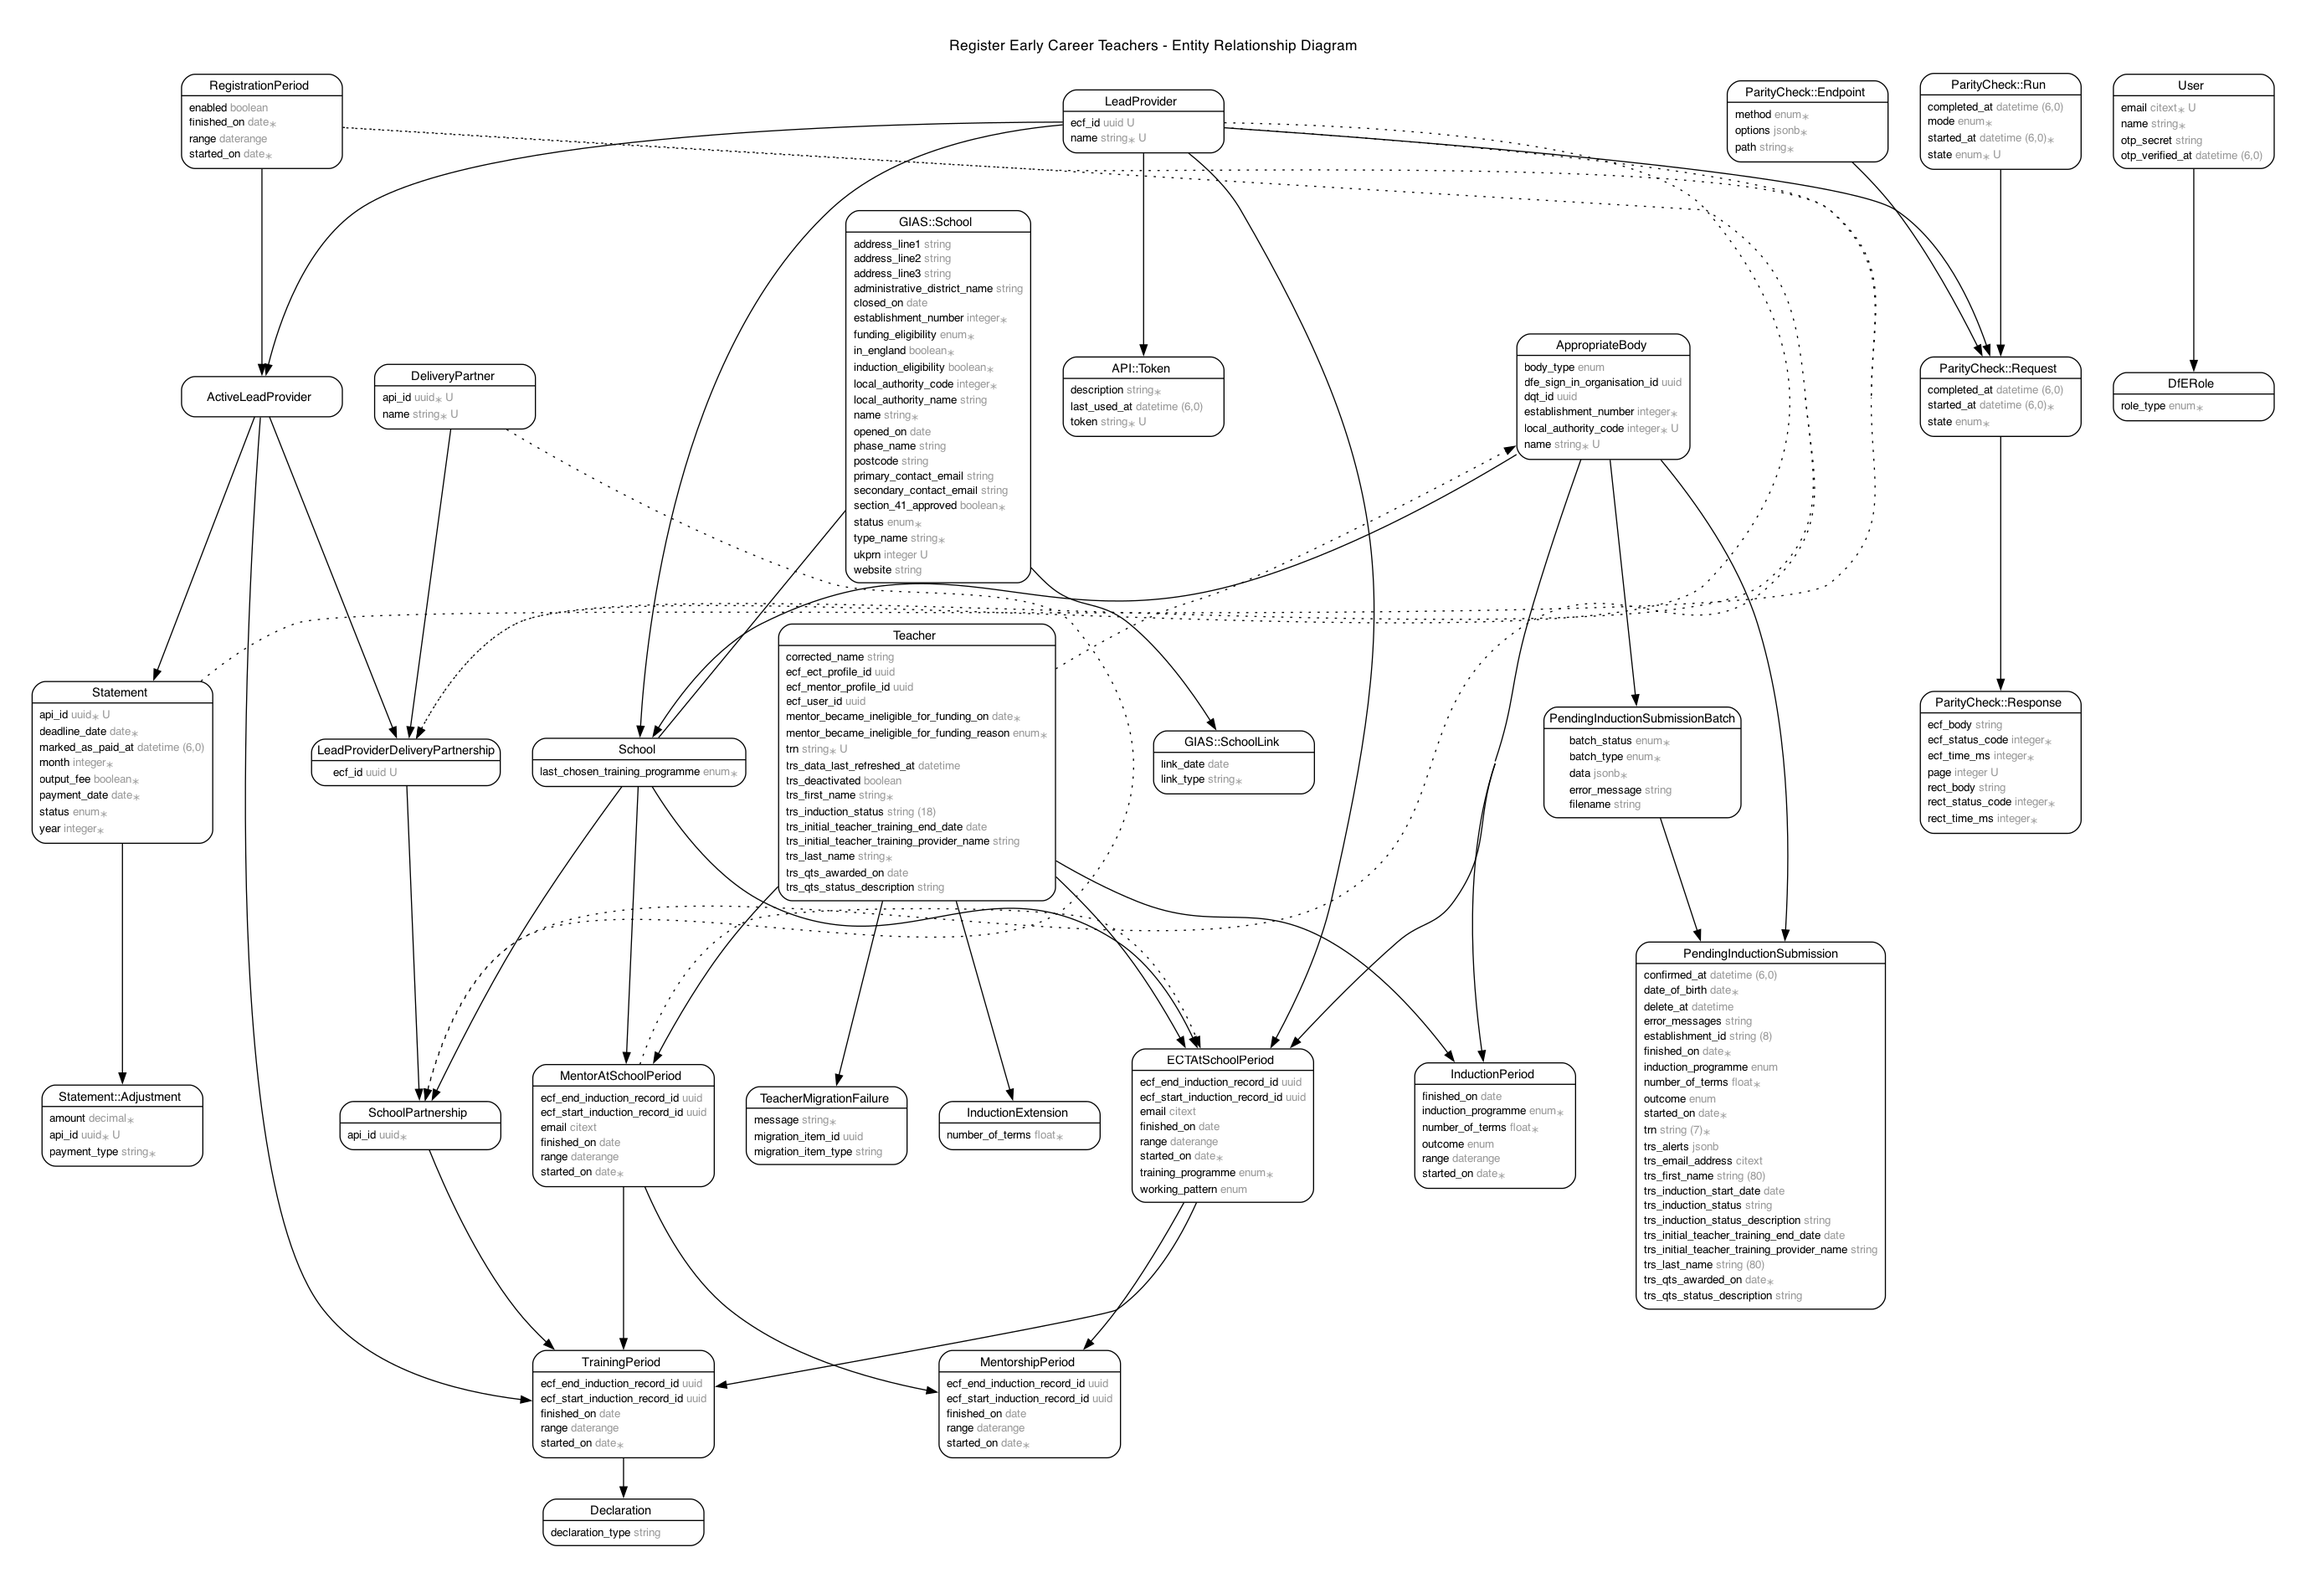
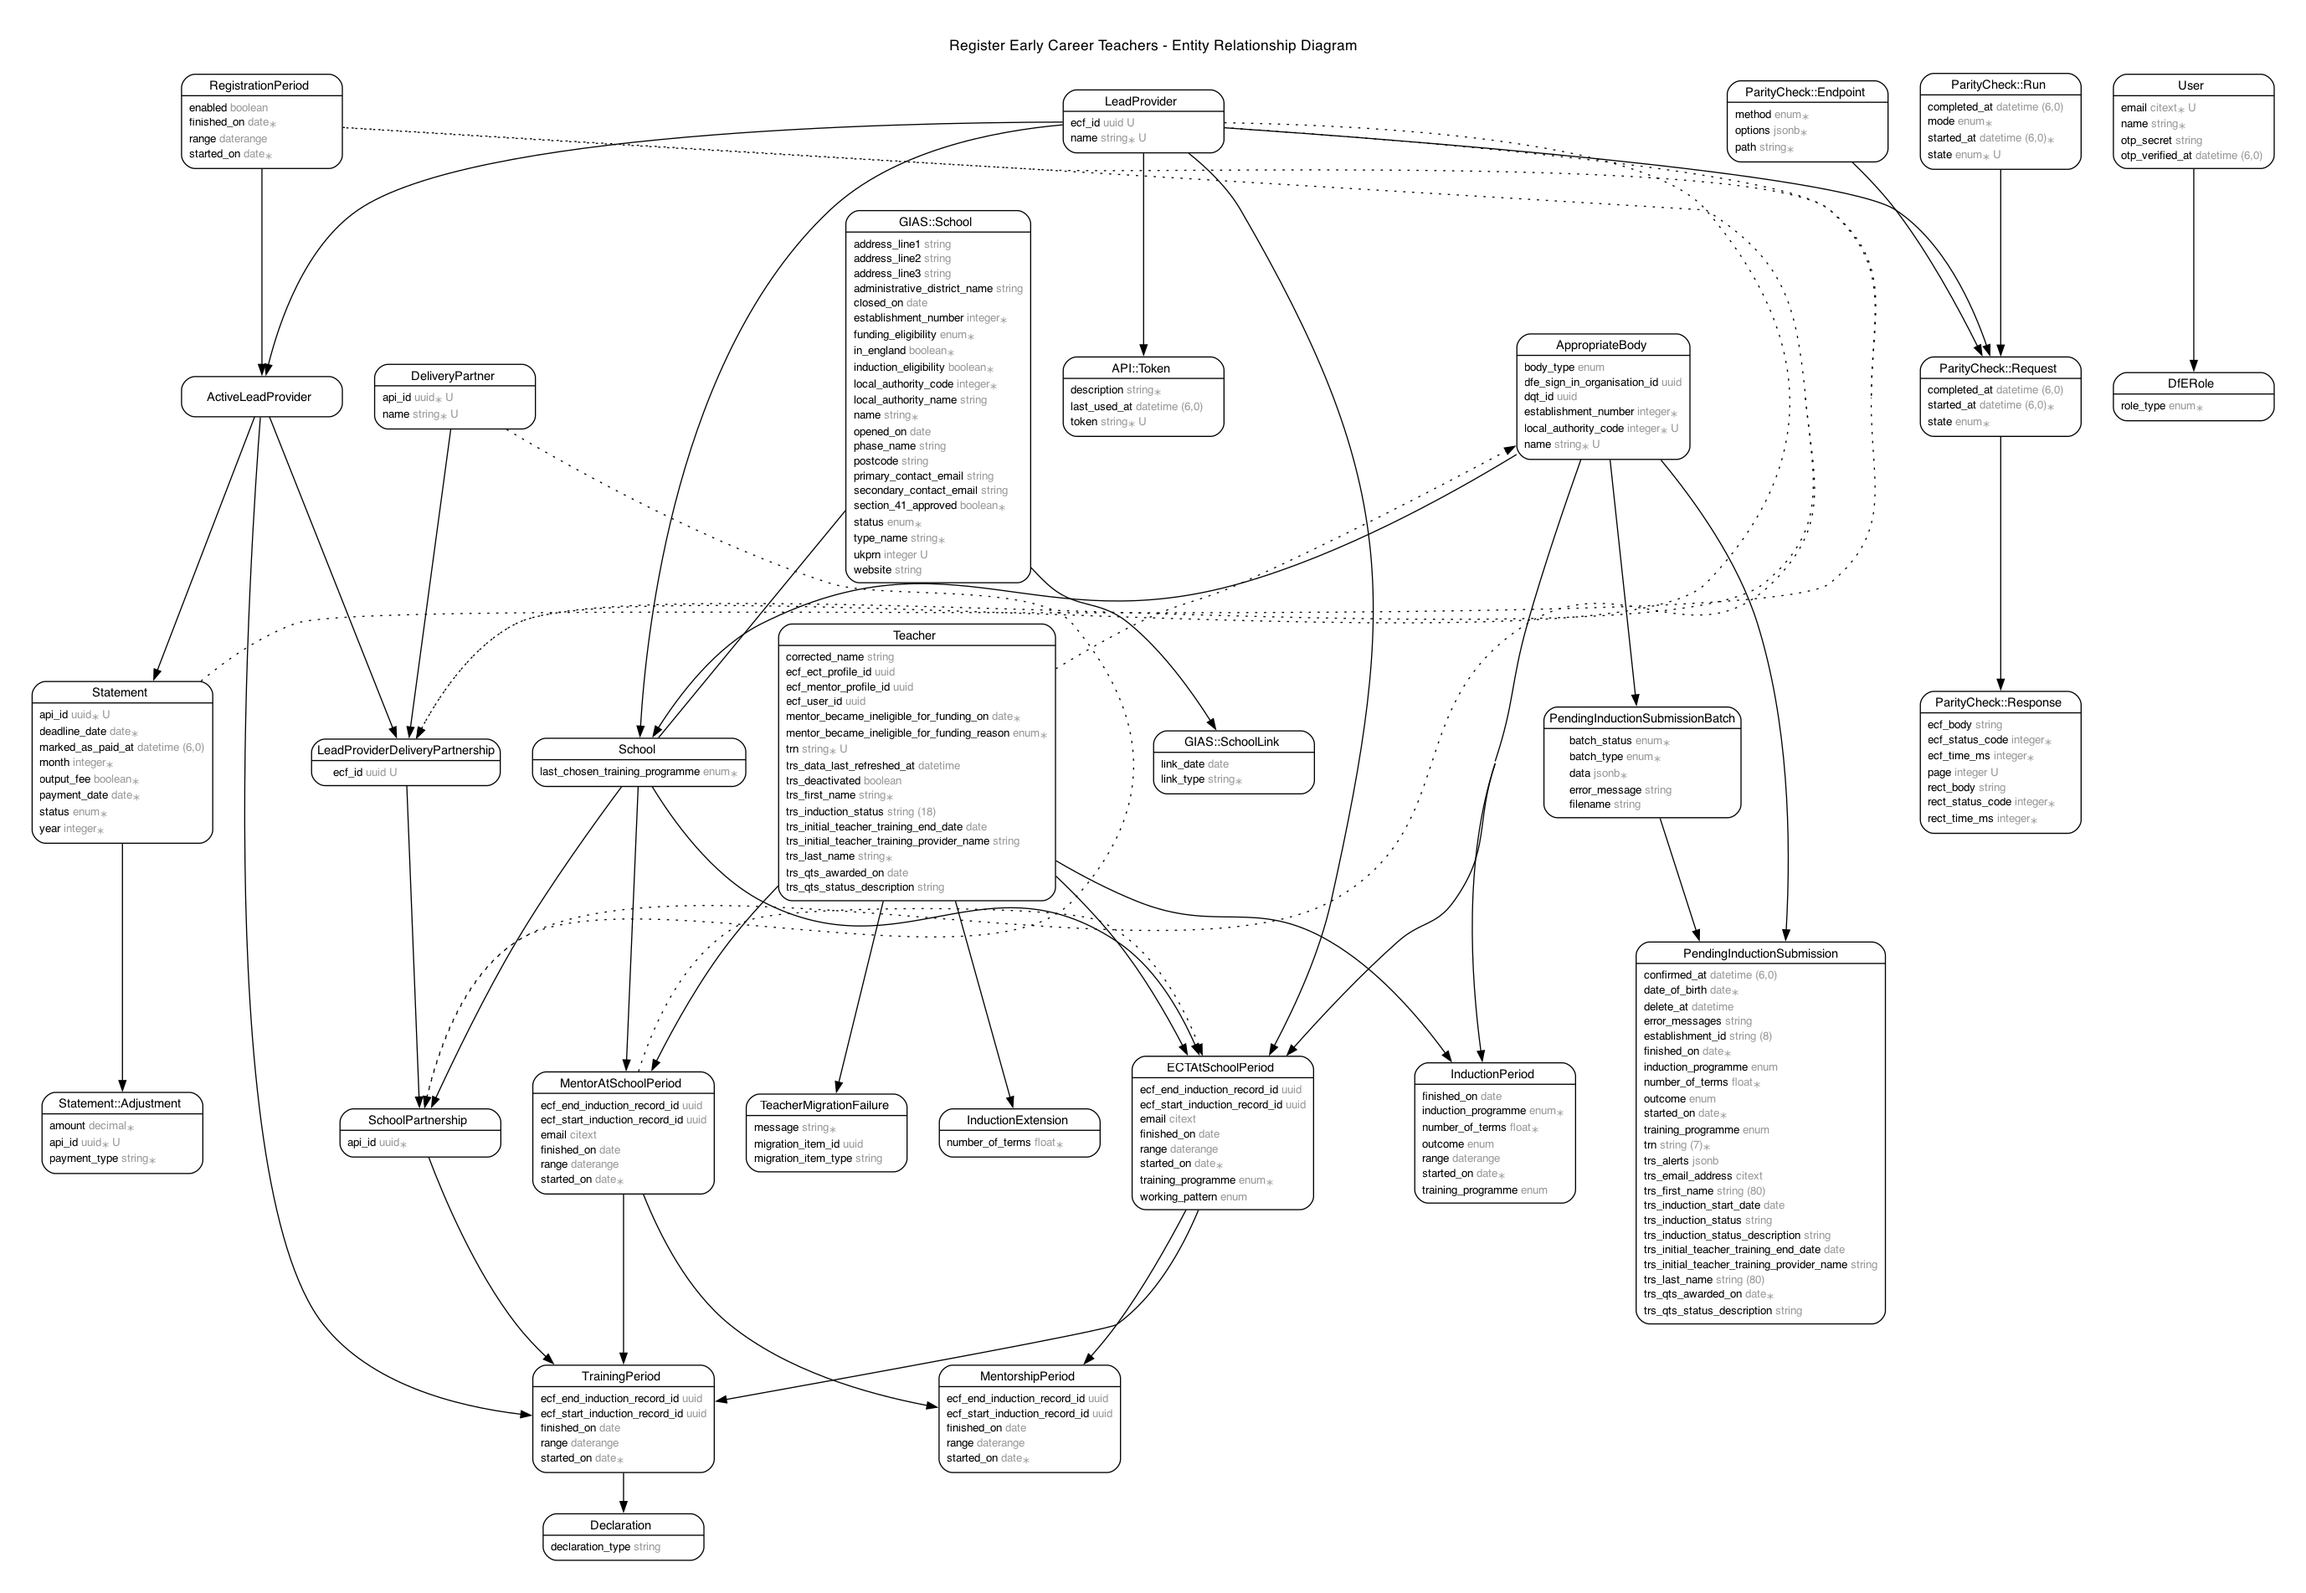
Update schema

diff --git a/db/schema.rb b/db/schema.rb
@@ -295,6 +295,7 @@ ActiveRecord::Schema[8.0].define(version: 2025_06_24_131716) do
     t.virtual "range", type: :daterange, as: "daterange(started_on, finished_on)", stored: true
     t.bigint "teacher_id"
     t.enum "outcome", enum_type: "induction_outcomes"
+    t.enum "training_programme", enum_type: "training_programme"
     t.index ["appropriate_body_id"], name: "index_induction_periods_on_appropriate_body_id"
     t.index ["teacher_id"], name: "index_induction_periods_on_teacher_id"
   end
@@ -452,6 +453,7 @@ ActiveRecord::Schema[8.0].define(version: 2025_06_24_131716) do
     t.datetime "delete_at", precision: nil
     t.bigint "pending_induction_submission_batch_id"
     t.string "error_messages", default: [], array: true
+    t.enum "training_programme", enum_type: "training_programme"
     t.index ["appropriate_body_id"], name: "index_pending_induction_submissions_on_appropriate_body_id"
     t.index ["pending_induction_submission_batch_id"], name: "idx_on_pending_induction_submission_batch_id_bb4509358d"
     t.index ["trn"], name: "index_pending_induction_submissions_on_trn"
